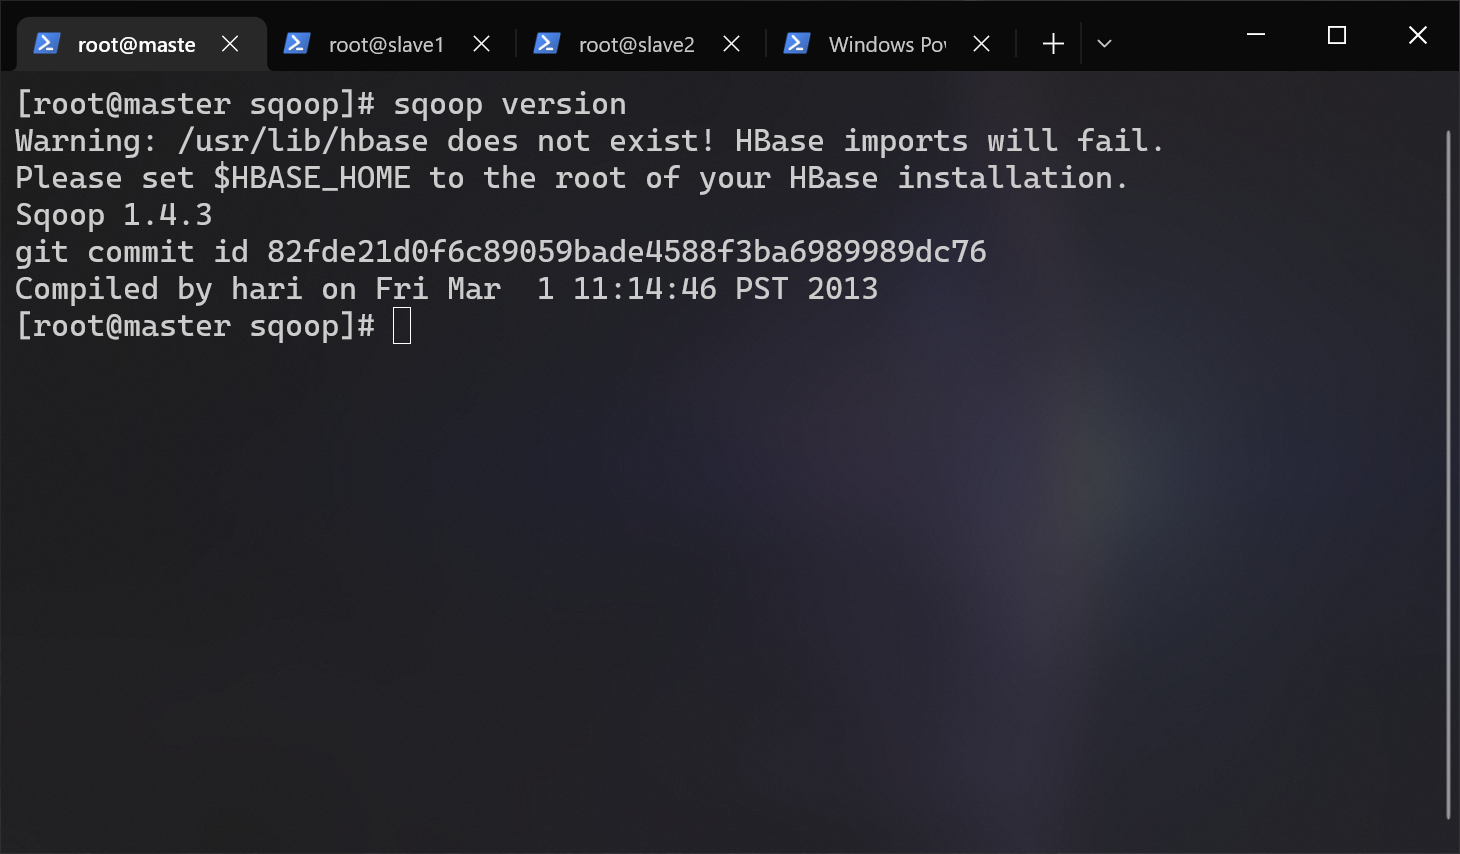
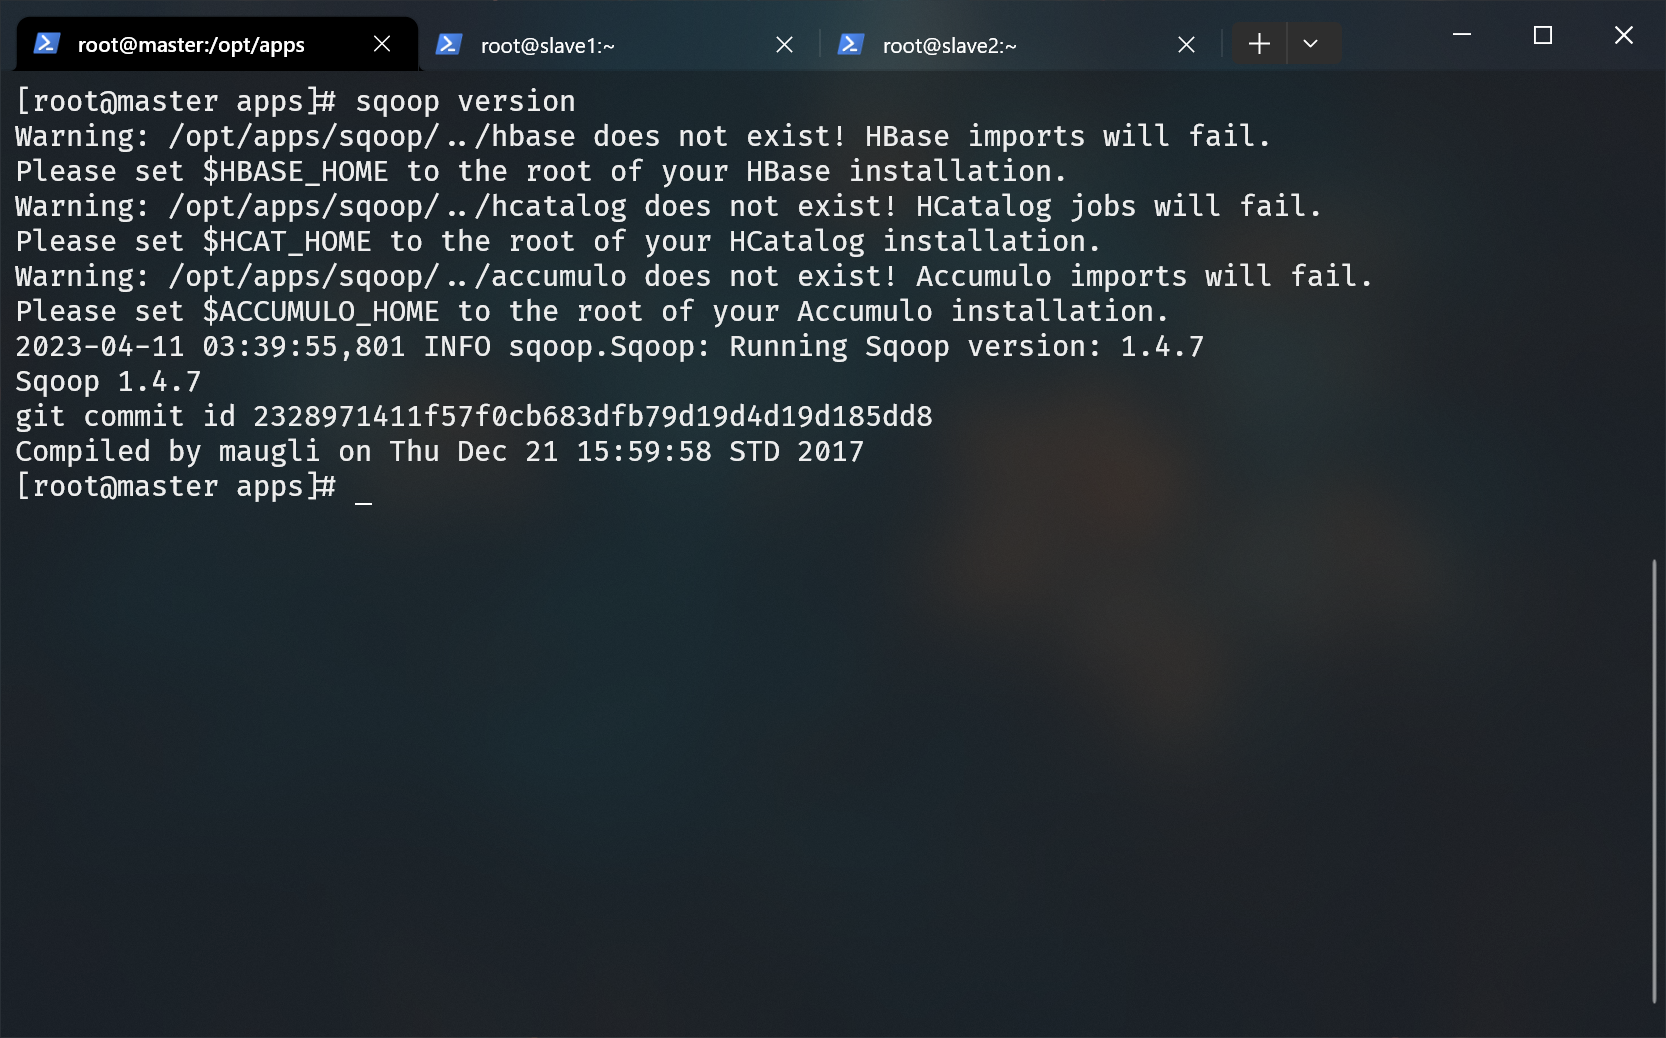
sqoop踩坑完毕

Changed region(s): [[0.0, 0.0, 1.0, 0.4871], [0.9863, 0.1522, 1.0, 0.9742], [0.6473, 0.4871, 0.7397, 0.7611]]

diff --git a/sqoop/README.md b/sqoop/README.md
@@ -4,8 +4,8 @@
 - hadoop 集群已经启动
 - mysql 已部署完毕
 - hive 已部署完毕
-- mysql-connector-java-5.1.32.jar（位于/opt/tar下）
-- sqoop-1.4.3.bin__hadoop-2.0.0-alpha.tar.gz（位于/opt/tar下）
+- mysql-connector-java-5.1.37.jar（位于/opt/tar下）
+- sqoop-1.4.7.bin__hadoop-2.6.0.tar.gz（位于/opt/tar下）
 - 非分布式搭建
 
 ---
@@ -16,14 +16,14 @@
 cd /opt/apps
 ```
 
-解压 sqoop-1.4.3.bin__hadoop-2.0.0-alpha.tar.gz 到当前目录：
+解压 sqoop-1.4.7.bin__hadoop-2.6.0.tar.gz 到当前目录：
 ``` bash
-tar -zxf /opt/tar/sqoop-1.4.3.bin__hadoop-2.0.0-alpha.tar.gz
+tar -zxf /opt/tar/sqoop-1.4.7.bin__hadoop-2.6.0.tar.gz
 ```
 
 重命名 sqoop ：
 ``` bash
-mv ./sqoop-1.4.3.bin__hadoop-2.0.0-alpha ./sqoop
+mv ./sqoop-1.4.7.bin__hadoop-2.6.0 ./sqoop
 ```
 
 ---
@@ -31,15 +31,15 @@ mv ./sqoop-1.4.3.bin__hadoop-2.0.0-alpha ./sqoop
 ## 2.放入 MySQL 驱动包：
 因为我们要通过 sqoop 操作 mysql，所以需要将java 连接 mysql 需要用到的驱动复制到 sqoop/lib 下：
 ``` bash
-cp /opt/tar/mysql-connector-java-5.1.32.jar /opt/apps/sqoop/lib/
+cp /opt/tar/mysql-connector-java-5.1.37.jar /opt/apps/sqoop/lib/
 ```
 
 ---
 
 ## 3.配置环境变量
-编辑用户根目录下的 .bashrc 文件：
+编辑环境变量：
 ``` bash
-vi ~/.bashrc
+env-edit
 ```
 
 在文件末尾添加：
@@ -50,7 +50,7 @@ export PATH=$PATH:$SQOOP_HOME/bin
 
 ## 4.生效环境变量
 ``` bash
-source ~/.bashrc
+env-update
 ```
 
 ---
@@ -70,10 +70,10 @@ sqoop version
 vi /etc/my.cnf
 ```
 
-在 my.cnf 配置文件中，bind-address 如果是 127.0.0.1，则 mysql 只接受本地连接，不接受远程连接。在 bind-address 后面增加远程访问 IP 地址或者注释掉这句话就可以远程登陆了。所以我们需要注释掉这一行（没有的话就无需这一步操作）：
+在 my.cnf 配置文件中，bind-address 如果是 127.0.0.1，则 mysql 只接受本地连接，不接受远程连接。在 bind-address 后面增加远程访问 IP 地址或者注释掉这句话就可以远程登陆了。所以我们需要注释掉这一行：
 ``` bash
-# 注释以井号开头
-bind-address = 127.0.0.1
+# 没有下面这一行的话就无需这一步操作
+#bind-address = 127.0.0.1
 ```
 
 以 root 身份登录到 mysql ：
@@ -81,7 +81,7 @@ bind-address = 127.0.0.1
 mysql -u root -p
 ```
 
-依照我们之前在[ mysql 搭建文档 ](../mysql/README.md)说过的方法，完全允许 root 远程连接 mysql ：  
+依照我们之前在[ mysql 搭建文档 ](../mysql/README.md)说过的方法，完全允许 root 远程连接 mysql：  
 命令解释：
   - GRANT：赋权命令
   - ALL PRIVILEGES：当前用户的所有权限
@@ -105,14 +105,17 @@ FLUSH PRIVILEGES;
 
 创建一个用于测试 sqoop 的数据库和表：
 ``` sql
-# 创建 sqoop_test 数据库
+-- 创建 sqoop_test 数据库
 CREATE DATABASE sqoop_test;
 
-# 切换到 sqoop_test 数据库
+-- 切换到 sqoop_test 数据库
 USE sqoop_test;
 
-# 创建 test 表
-CREATE TABLE `test` (`name` VARCHAR(50), `age` INT) ENGINE=InnoDB DEFAULT CHARSET=utf8;
+-- 创建 test 表
+CREATE TABLE `test` (
+  `name` VARCHAR(50),
+  `age` INT
+) ENGINE=InnoDB DEFAULT CHARSET=utf8;
 ```
 ![SQL结果](./images/5_1.png)
 
@@ -120,7 +123,11 @@ CREATE TABLE `test` (`name` VARCHAR(50), `age` INT) ENGINE=InnoDB DEFAULT CHARSE
 
 插入一些数据：
 ``` sql
-INSERT INTO test VALUES ("张三", 20), ("李四", 24), ("王五", 22), ("王五", 22);
+INSERT INTO test VALUES
+  ("张三", 20),
+  ("李四", 24),
+  ("王五", 22),
+  ("王五", 22);
 ```
 ![插入结果](./images/5_2.png)
 
@@ -194,7 +201,7 @@ hdfs dfs -rm -r /user/root/test
 
 再次导入：
 ``` bash
-sqoop import --connect jdbc:mysql://master:3306/sqoop_test --table test --username root -P --m 1
+sqoop import --connect jdbc:mysql://192.168.56.101:3306/sqoop_test --table test --username root -P --m 1
 ```
 ![更换 ip](./images/8_2.png)
 
@@ -239,17 +246,22 @@ CREATE TABLE `test_from_hdfs` (
 
 退出 mysql，开始使用 sqoop 导入数据：
 ``` bash
-sqoop export --connect jdbc:mysql://master:3306/sqoop_test --username root -P --table test_from_hdfs --m 1 --export-dir /user/root/test --input-fields-terminated-by ","
+sqoop export --connect jdbc:mysql://192.168.56.101:3306/sqoop_test --username root -P --table test_from_hdfs --m 1 --export-dir /user/root/test --input-fields-terminated-by ","
 ```
 ![导入数据：](./images/9_2.png)
 
-
-来查看下我们前面创建的 test_from_hdfs 表：
+登入 mysql：
 ``` bash
+mysql -u root -p
+```
+
+查看下我们创建的 test_from_hdfs 表：
+``` sql
 SELECT * FROM sqoop_test.test_from_hdfs;
 ```
 ![导入的数据](./images/9_3.png)
-可以看到数据导入成功了，但是有一个新的问题。那就是所有的汉字都显示成了问号，篇幅原因我们放在下一节一一道来。
+
+可以看到数据导入成功了，但是有一个新的问题。那就是所有的汉字都显示成了问号，篇幅原因我们放在下一节细说。
 
 ---
 
@@ -279,15 +291,8 @@ init_connect='SET NAMES utf8'
 
 重启 mysql 服务：
 
-> 直接重启服务大概率会卡住（不明原因）
-> systemctl restart mysqld.service
-> 所以我们还是先停止服务再启动服务吧
-
 ``` bash
-# 停止
-systemctl stop mysqld.service
-# 启动
-systemctl start mysqld.service
+systemctl restart mysqld.service
 ```
 
 进入 mysql 查看编码信息：
@@ -297,7 +302,12 @@ SHOW VARIABLES LIKE 'character%';
 ![编码信息](./images/10_2.png)
 可以看到编码全是 utf8 了。
 
-删除我们在第九步从 hdfs 导出到 mysql 的 sqoop_test.test_from_hdfs 数据表，然后重复第十步操作即可。
+清空我们在第九步从 hdfs 导出到 mysql 的 sqoop_test.test_from_hdfs 数据表：
+``` sql
+TRUNCATE sqoop_test.test_from_hdfs;
+```
+
+然后重复第十步操作即可。
 ![正常的输出](./images/10_3.png)
 
 ---

diff --git a/hive/README.md b/hive/README.md
@@ -202,6 +202,7 @@ hive
 解决方案是把 hive-site.xml 文件中绝对路径字眼 “system:” 全部删掉：
 ``` bash
 # sed -i "s/要替换的/替换为/g" 文件路径
+# 此命令用于替换内容
 sed -i "s/system://g" /opt/apps/hive/conf/hive-site.xml
 ```
 
@@ -222,11 +223,7 @@ hive
 
 我们先来创建一个结构化的数据：
 ``` bash
-# 进入根目录
-cd ~
-
-# 新建一个文本文件
-vi test.txt
+vi ~/test.txt
 ```
 
 写入这些东西：
@@ -240,7 +237,6 @@ vi test.txt
 
 在 hdfs 里创建一个 test_hive 目录：
 ``` bash
-# hdfs dfs -命令 值
 hdfs dfs -mkdir /test_hive
 ```
 

diff --git a/hadoop/README.md b/hadoop/README.md
@@ -480,7 +480,7 @@ scp ./big_data_env.sh slave1:$(pwd)/
 scp ./big_data_env.sh slave2:$(pwd)/
 ```
 
-## 10.生效环境变量：
+## 10.生效环境变量
 > 以下内容在所有节点上操作
 ``` bash
 source /etc/profile.d/big_data_env.sh

diff --git a/_coverpage.md b/_coverpage.md
@@ -1,6 +1,6 @@
 # 大数据平台搭建文档
 
-> 承蒙自己厚爱，日后更加勤快！
+> 芜湖开摆~~~
 
 [前往仓库](https://github.com/AmzGrainRain/B3D)
 [开始浏览](#平台搭建)
